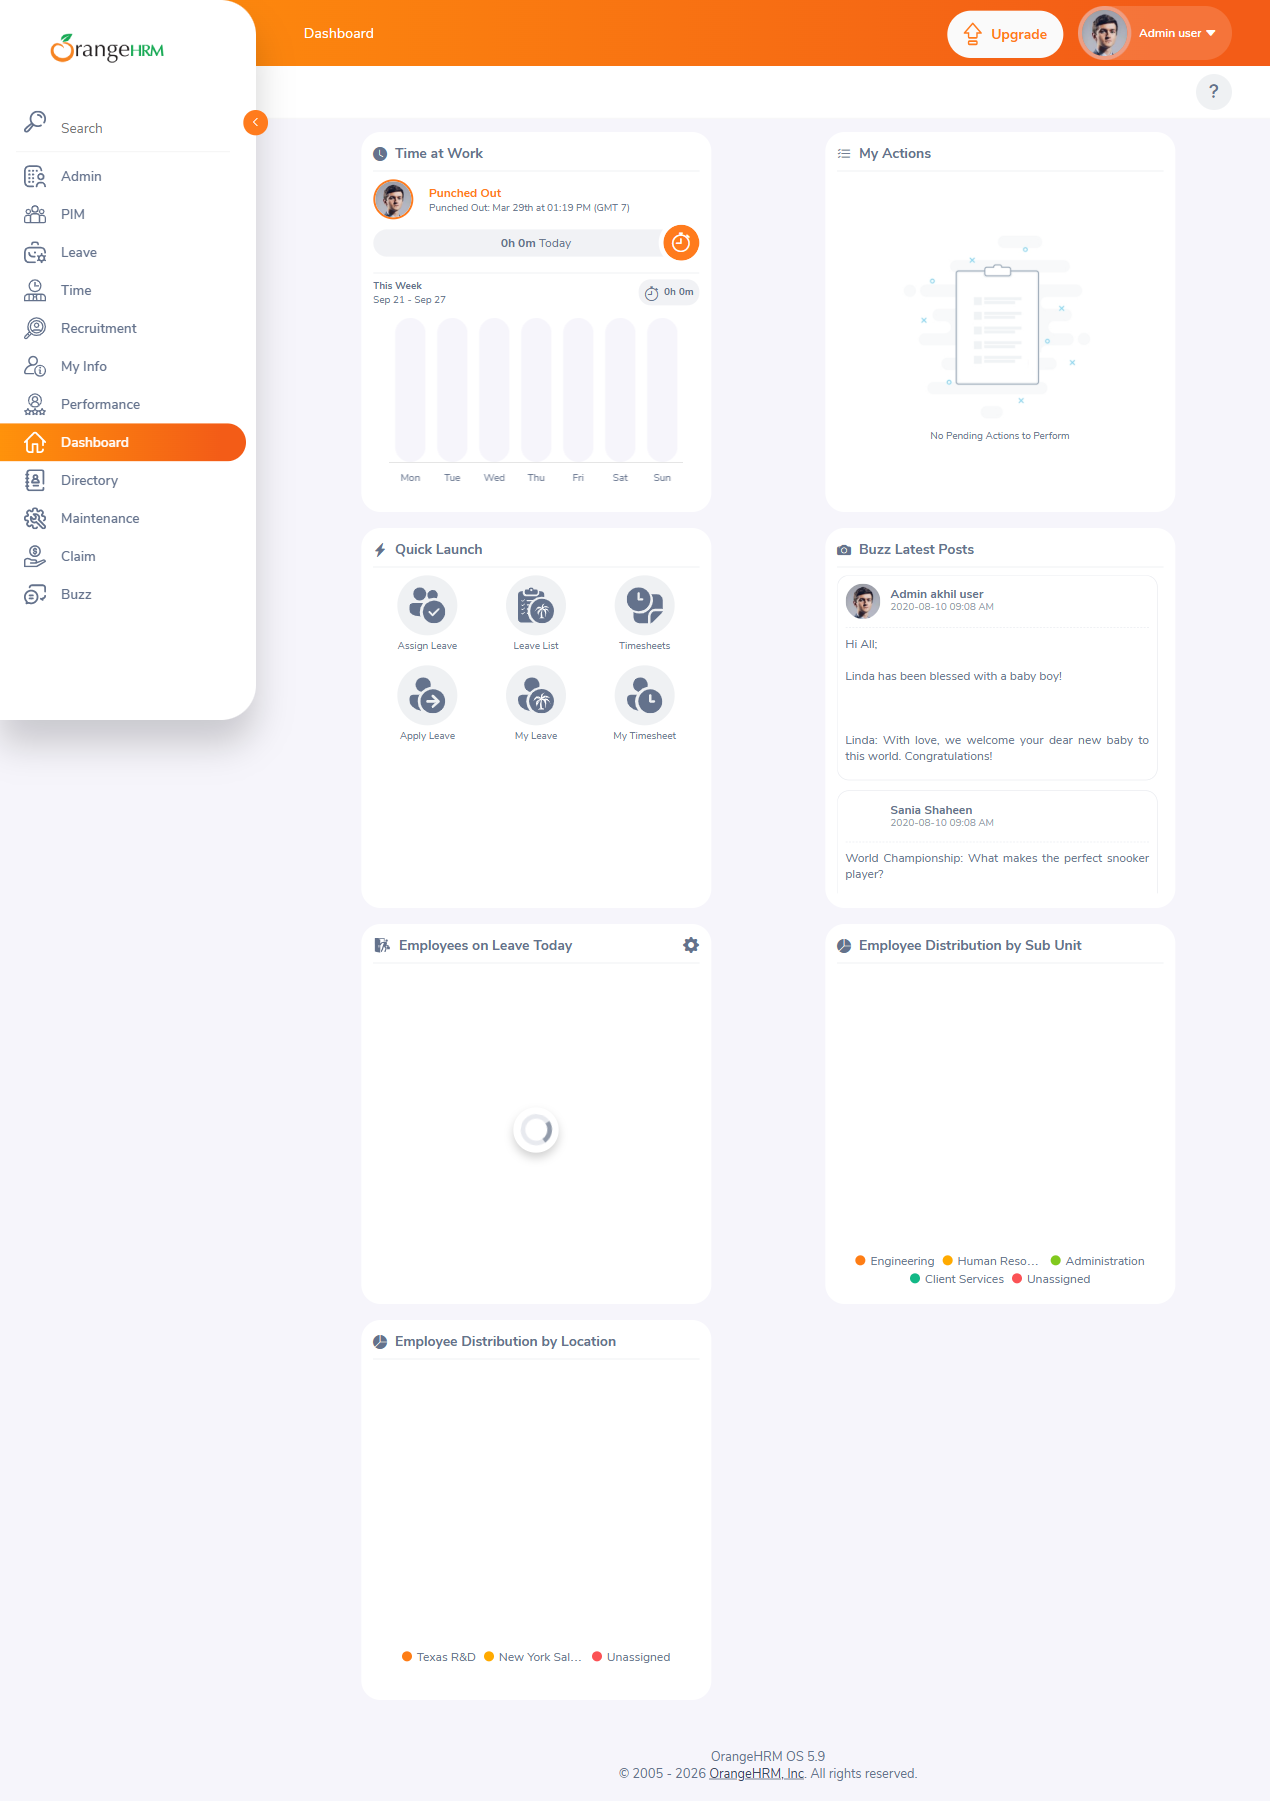
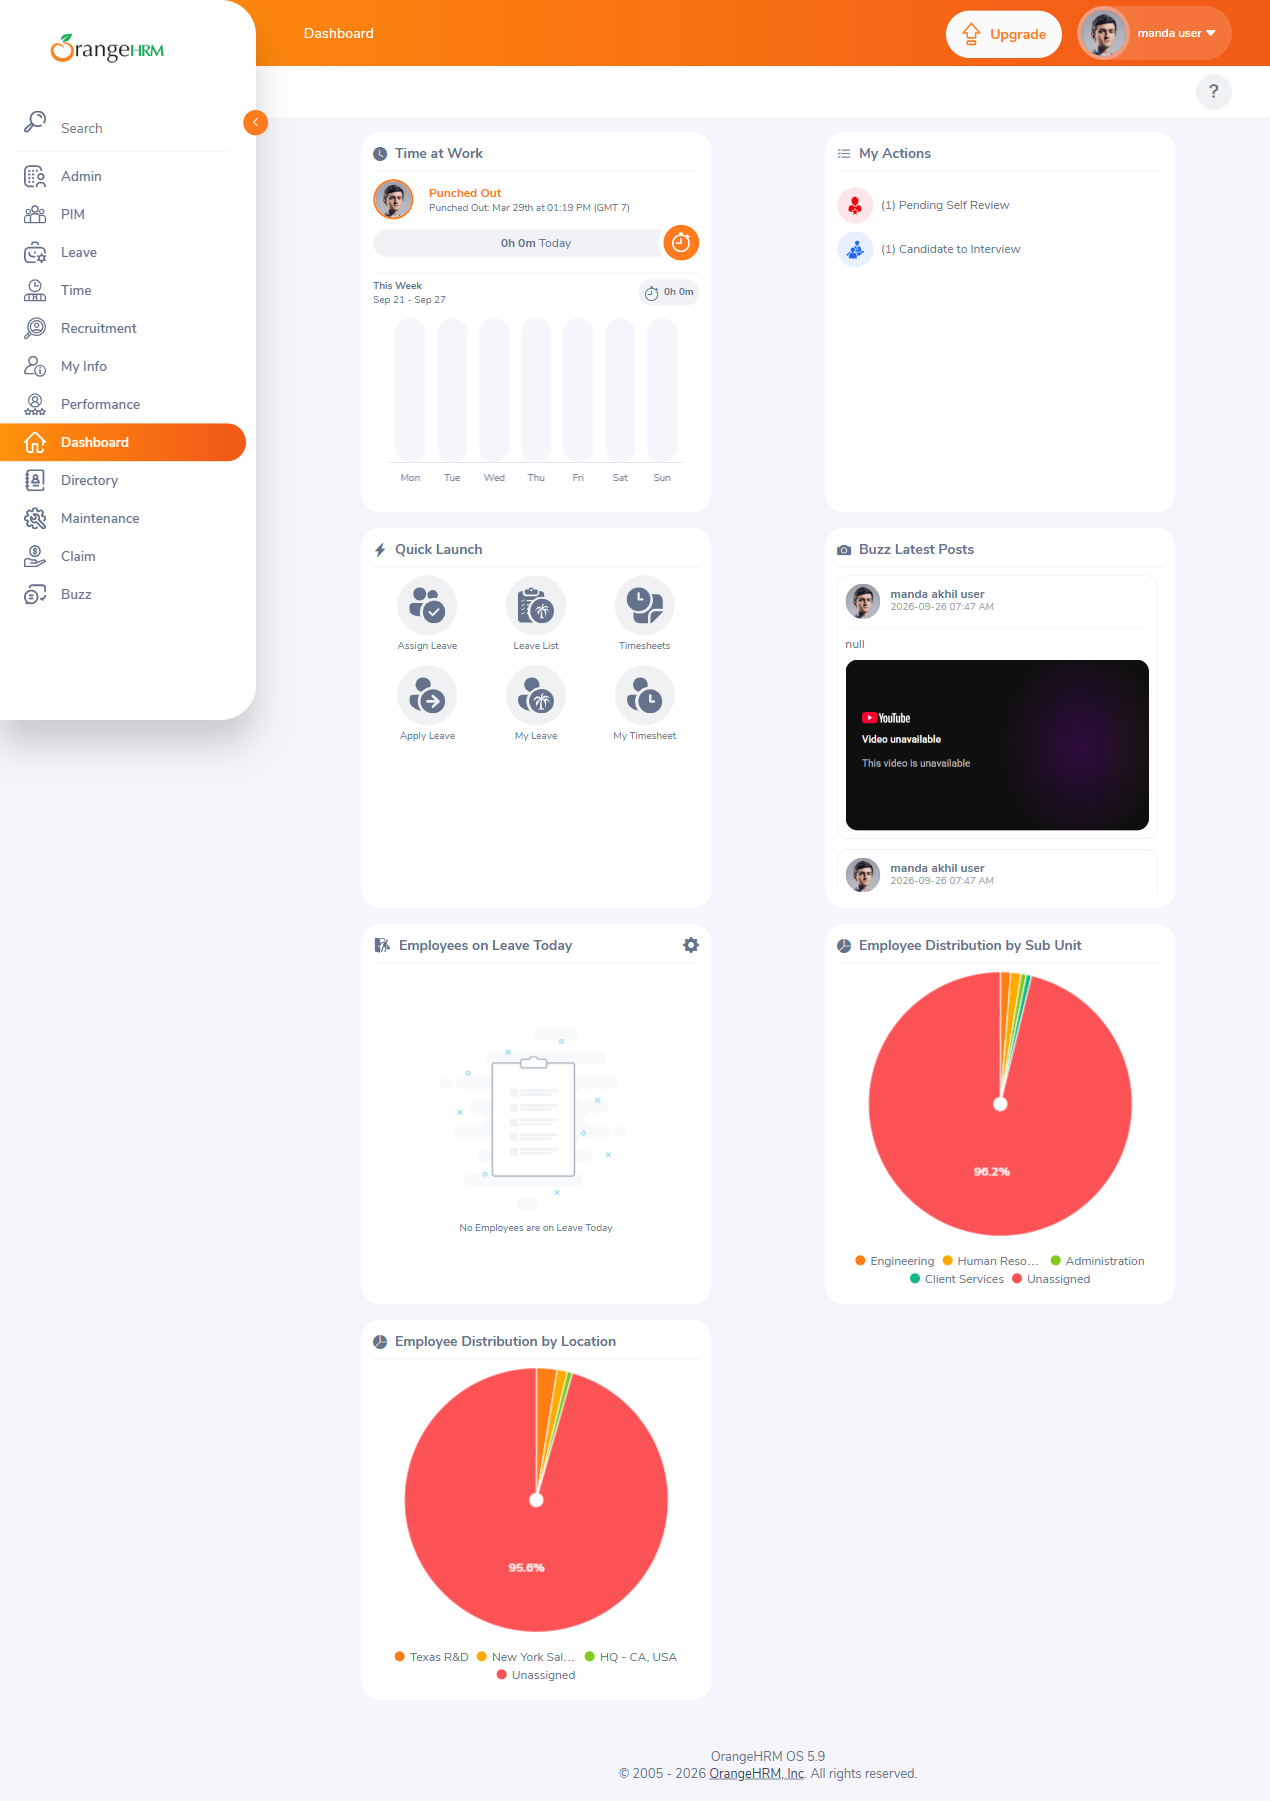
updated package json

diff --git a/playwright.config.js b/playwright.config.js
@@ -15,7 +15,7 @@ import { defineConfig, devices } from '@playwright/test';
 export default defineConfig({
   testDir: './tests',
   /* Run tests in files in parallel */
-  fullyParallel: false,
+  fullyParallel: true,
   /* Fail the build on CI if you accidentally left test.only in the source code. */
   forbidOnly: !!process.env.CI,
   /* Retry on CI only */
@@ -38,7 +38,7 @@ export default defineConfig({
     },
     screenshot: 'on',
     video: 'on',
-    headless: false
+    headless: true
   },
 
   /* Configure projects for major browsers */

diff --git a/tests/table.spec.js b/tests/table.spec.js
@@ -45,7 +45,7 @@ test('Dynamic Table',async({page})=>{
     expect(chromeCPULoad).toEqual(cpuLoadChrome)
 })
 
-test.only('Pagination Table',async({page})=>{
+test('Pagination Table',async({page})=>{
     await page.goto('https://testautomationpractice.blogspot.com/')
     const paginationTable = await page.locator('#productTable')
     await expect(paginationTable).toBeVisible();
